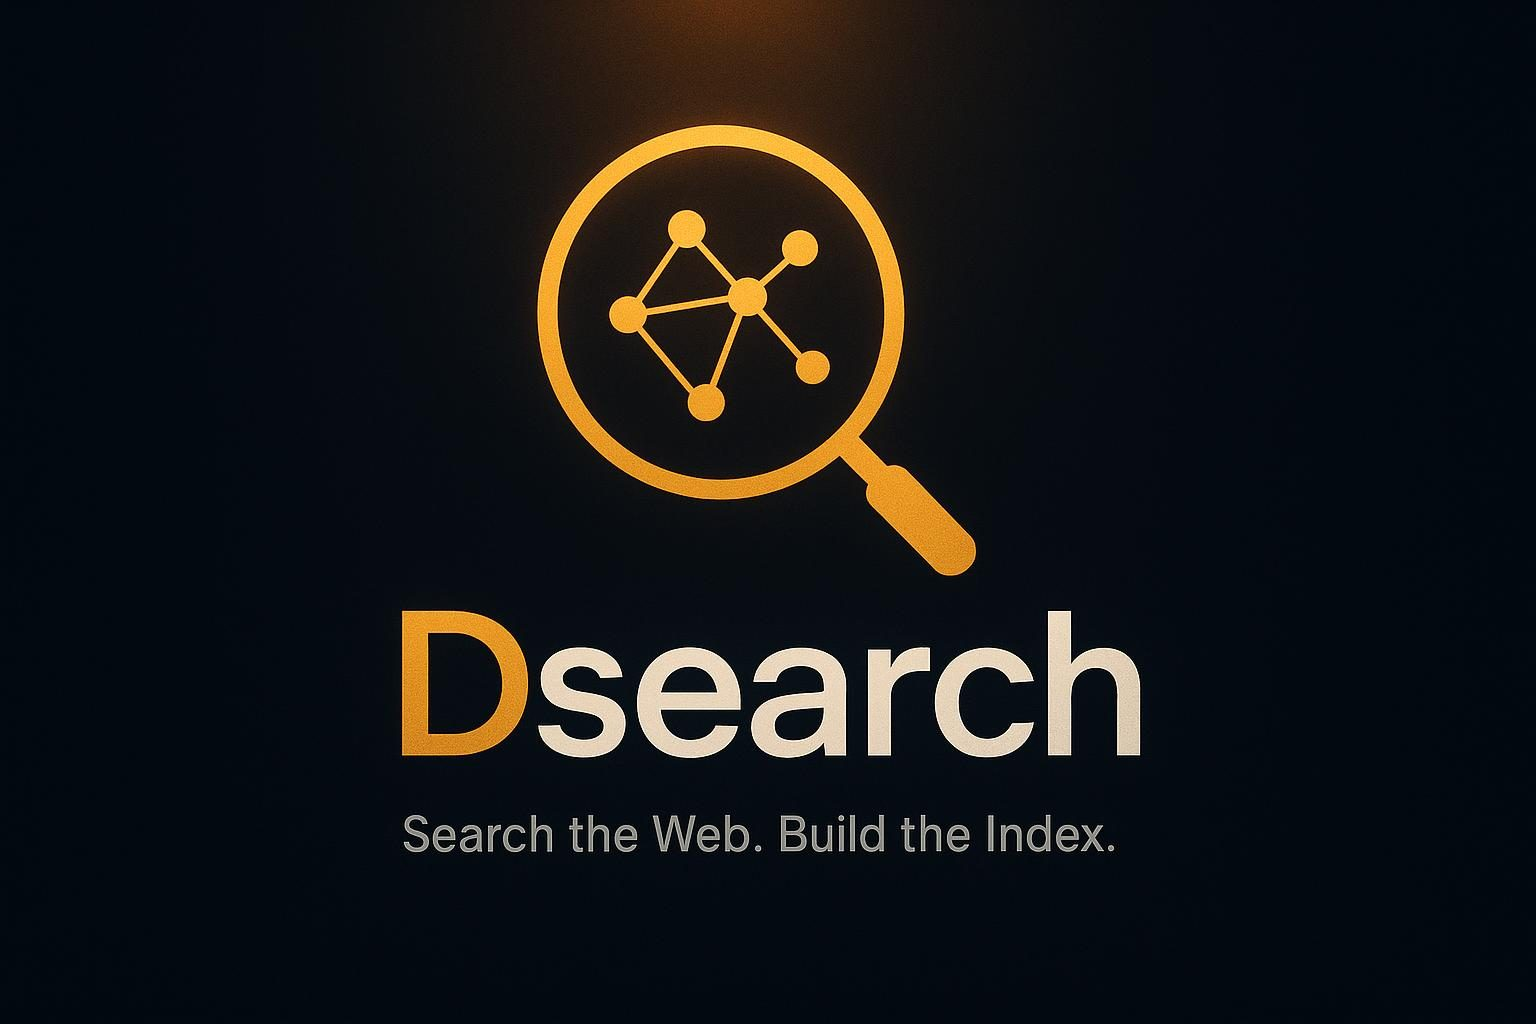
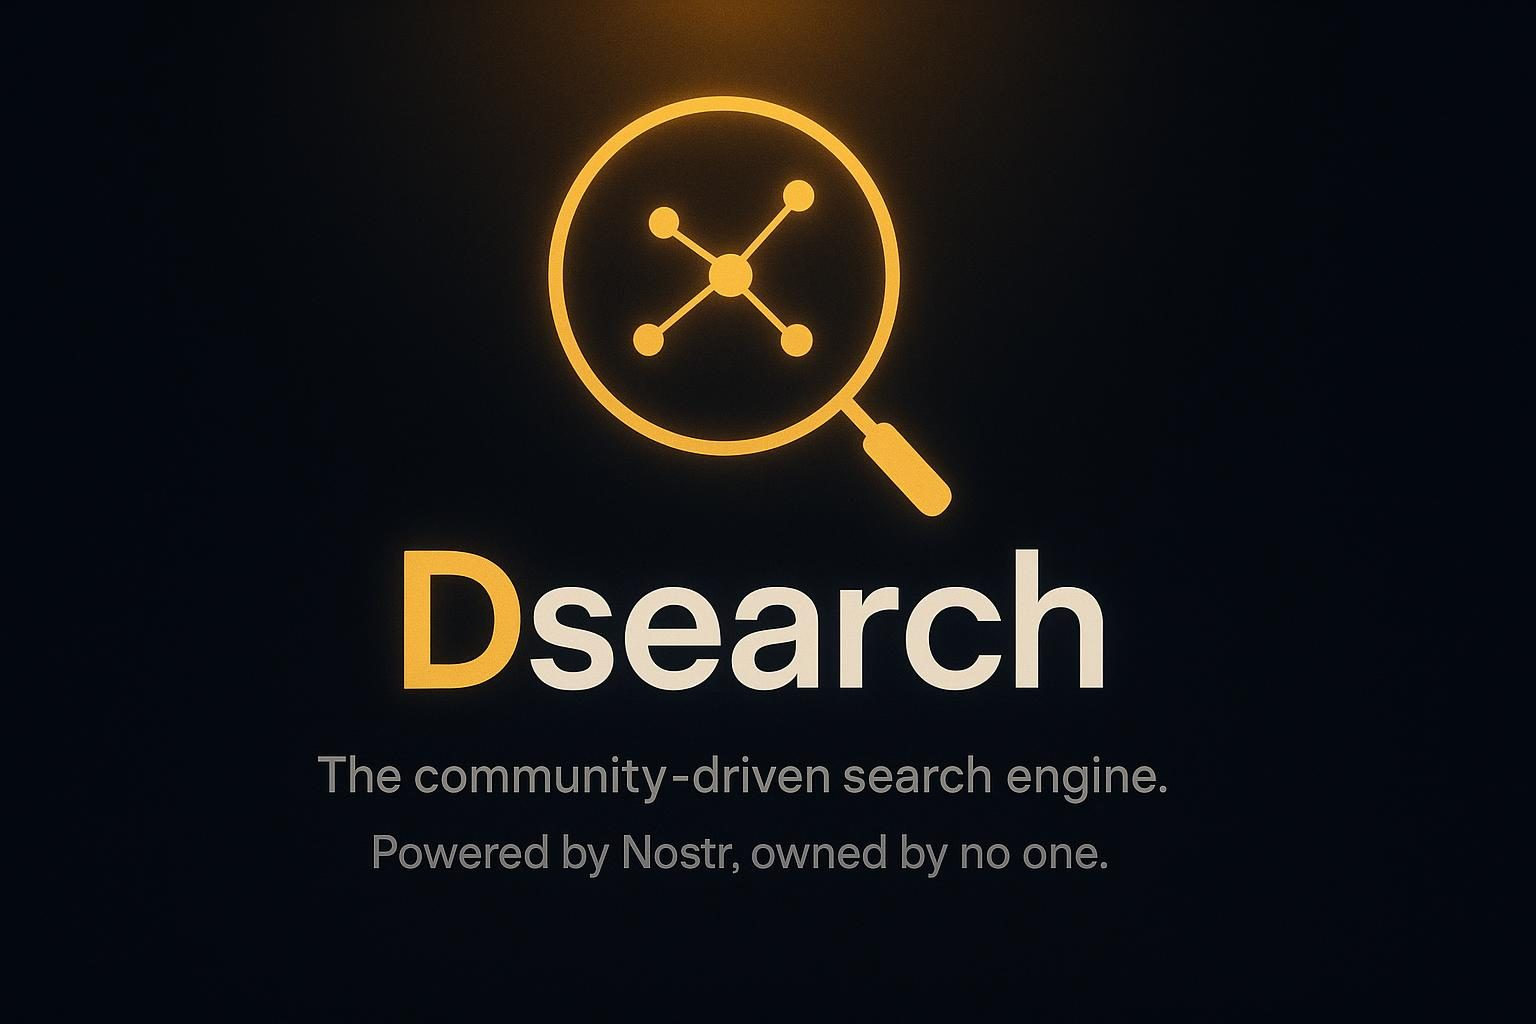
Canonical tagline everywhere: "The community-driven search engine. Powered by Nostr, owned by no one."
- index.html: <title>, og:title, twitter:title → "Dsearch — The
  community-driven search engine"; meta description leads with the full line
- og.jpg regenerated: Dsearch wordmark + two-line canonical tagline
- logo.svg lockup tagline → "POWERED BY NOSTR. OWNED BY NO ONE." (the half
  that fits the 640px canvas; re-uploaded to Blossom, new content hash:
  blossom.ditto.pub/2c16c548…)
- Footer, About intro, Index SEO meta, manifest description, README
  tagline + logo alt all aligned to the canonical line
- "Search the Web. Build the Index." retires as a headline but lives on in
  spirit — the /build ladder still runs Search → Crawl → Index → Relay →
  Develop

Changed region(s): [[0.2188, 0.0625, 0.75, 0.8438]]

diff --git a/index.html b/index.html
@@ -5,22 +5,22 @@
         <meta name="viewport" content="width=device-width, initial-scale=1.0">
         <meta http-equiv="content-security-policy" content="default-src 'none'; script-src 'self'; style-src 'self' 'unsafe-inline'; frame-src 'self' https:; font-src 'self'; base-uri 'self'; manifest-src 'self'; connect-src 'self' blob: https: wss: ws://*.onion; img-src 'self' data: blob: https:; media-src 'self' https:">
         <meta name="theme-color" content="#f0b45a">
-        <meta name="description" content="Dsearch — Search the Web. Build the Index. The decentralized search engine built by its users: a community web index on Nostr (SIP-01), open crawlers and indexers, and privacy-first results across Nostr, the clearnet, and dark web services.">
+        <meta name="description" content="Dsearch — The community-driven search engine. Powered by Nostr, owned by no one. A community web index on Nostr (SIP-01), open crawlers and indexers, and privacy-first results across Nostr, the clearnet, and dark web services.">
         <!-- Open Graph -->
         <meta property="og:type" content="website">
         <meta property="og:site_name" content="Dsearch">
-        <meta property="og:title" content="Dsearch — Search the Web. Build the Index.">
+        <meta property="og:title" content="Dsearch — The community-driven search engine">
         <meta property="og:description" content="The community-driven search engine. Powered by Nostr, owned by no one. Search it, crawl it, index it, relay it, build on it.">
         <meta property="og:url" content="https://dsearch.com/">
         <meta property="og:image" content="https://dsearch.com/og.jpg">
         <meta name="twitter:card" content="summary_large_image">
-        <meta name="twitter:title" content="Dsearch — Search the Web. Build the Index.">
+        <meta name="twitter:title" content="Dsearch — The community-driven search engine">
         <meta name="twitter:description" content="The community-driven search engine. Powered by Nostr, owned by no one.">
         <meta name="twitter:image" content="https://dsearch.com/og.jpg">
         <link rel="icon" type="image/svg+xml" href="/favicon.svg">
         <link rel="manifest" href="/manifest.webmanifest">
         <link rel="search" type="application/opensearchdescription+xml" title="Dsearch" href="/opensearch.xml">
-        <title>Dsearch — Search the Web. Build the Index.</title>
+        <title>Dsearch — The community-driven search engine</title>
     </head>
     <body>
         <div id="root">

diff --git a/src/pages/Index.tsx b/src/pages/Index.tsx
@@ -152,8 +152,8 @@ const Index = () => {
   const ai = useAIAnswer(activeQuery, organicResults, hasSearched && source !== 'i2p');
 
   useSeoMeta({
-    title: hasSearched ? `${activeQuery} - Dsearch` : 'Dsearch — Search the Web. Build the Index.',
-    description: 'The decentralized search engine built by its users. Nostr-first, SIP-01 federated web index, enriched with privacy-respecting web results. No backend, no tracking.',
+    title: hasSearched ? `${activeQuery} - Dsearch` : 'Dsearch — The community-driven search engine',
+    description: 'The community-driven search engine. Powered by Nostr, owned by no one. SIP-01 federated web index, privacy-respecting web results. No backend, no tracking.',
   });
 
   const handleSubmit = useCallback((value: string) => {

diff --git a/src/pages/About.tsx b/src/pages/About.tsx
@@ -26,7 +26,7 @@ export default function About() {
           <h1 className="text-3xl font-bold tracking-tight">About Dsearch</h1>
         </div>
         <p className="text-muted-foreground mb-8 leading-relaxed max-w-2xl">
-          <strong className="text-foreground">Search the Web. Build the Index.</strong>{' '}
+          <strong className="text-foreground">The community-driven search engine. Powered by Nostr, owned by no one.</strong>{' '}
           Dsearch is the decentralized search engine built by its users — a search engine and the
           home of an open search-infrastructure ecosystem. Every search source is a standalone provider
           returning a universal <code className="text-xs bg-muted px-1.5 py-0.5 rounded font-mono">SearchResult[]</code>.

diff --git a/src/components/Layout.tsx b/src/components/Layout.tsx
@@ -172,7 +172,7 @@ export function Layout({ children, minimal = false }: LayoutProps) {
           <div className="flex items-center gap-2">
             <span className="font-semibold"><span className="text-primary/70">D</span>search</span>
             <span className="text-border">|</span>
-            <span>Search the Web. Build the Index.</span>
+            <span>The community-driven search engine. Powered by Nostr, owned by no one.</span>
           </div>
           <div className="flex flex-wrap items-center justify-center gap-x-4 gap-y-2">
             {HUB_LINKS.map((link) => (

diff --git a/README.md b/README.md
@@ -1,10 +1,10 @@
 <p align="center">
-  <img src="public/brand/logo.svg" alt="Dsearch — Search the Web. Build the Index." width="480">
+  <img src="public/brand/logo.svg" alt="Dsearch — The community-driven search engine. Powered by Nostr, owned by no one." width="480">
 </p>
 
 # Dsearch
 
-**Search the Web. Build the Index.**
+**The community-driven search engine. Powered by Nostr, owned by no one.**
 
 Dsearch is the **decentralized search engine built by its users** — and the home of an open
 search-infrastructure ecosystem. One shared index on Nostr, built by everyone who searches,
